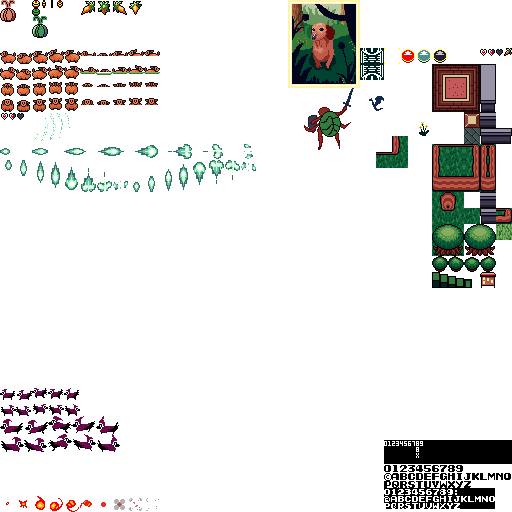
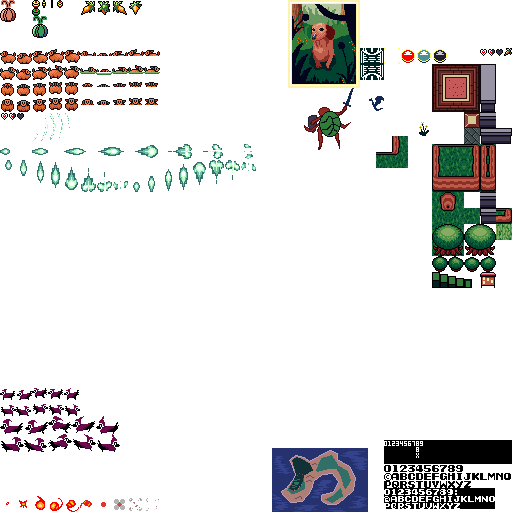
enter and exit the levelSelect status

Changed region(s): [[0.5312, 0.875, 0.7188, 1.0]]

diff --git a/LevelSelect.js b/LevelSelect.js
@@ -1,34 +1,103 @@
-class LevelPortal {
+/*
+LevelPortal.connections = [4]
+left, up, right, down
+
+
+*/
+
+class LevelPortal extends Sprite {
 	constructor(id,x,y,name,connections) {
+		super();
 		this.x = x;
 		this.y = y;
 		this.id = id;
 		this.name = name;
 		this.connections = connections;
 		this.up = this.getUpConnect();
-		this.down = down;
-		this.right = right;
-		this.left = left;
+		this.down = this.getDownConnect();
+		this.right = this.getRightConnect();
+		this.left = this.getLeftConnect();
 		
 		this.addCostume("red_level",400,48,16,16);
 		this.addCostume("blue_level",416,48,16,16);
 		this.addCostume("black_level",432,48,16,16);
+		this.setCurrentCostume("red_level");
 	}
 	
+	getLeftConnect = function() {
+		return (this.connections[0] == '1');
+	}
 	getUpConnect = function() {
-		return (connections[0] == '1');
+		return (this.connections[1] == '1');
+	}
+	getRightConnect = function() {
+		return (this.connections[2] == '1');
+	}
+	getDownConnect = function() {
+		return (this.connections[3] == '1');
 	}
 }
 
-class LevelSelectScreen {
+class Cursor extends Sprite {
+		constructor(type,x,y) {
+			super();
+			this.moveTo(x,y);
+			this.addCostume("cursor",384,48,16,16);
+			this.setCurrentCostume("cursor");
+		}
+	
+}
+
+class LevelSelectScreen extends Screen {
 	constructor() {
-		this.levels = [];
-		this.addLevel
+		super();
 		
-		this.addCostume("cursor",384,48,16,16);
+		addAtlas("worldmap",272,448,96,64);
+		this.levels = [];
+		this.selected = 0;
+		this.spaceReady = false;
+		
+		this.addLevel("level_0",102,96,"SANDY BEACH",'0100');
+		
+		this.cursor = new Cursor(0,0);
+		
 	}
 	
 	addLevel = function(id,x,y,name,connections) {
 		this.levels.push(new LevelPortal(id,x,y,name,connections));
+	}
+	
+		
+	process = function() {
+
+		if (key.space && this.spaceReady) {
+			game.status = "game";
+			init();
+		}
+		if (!key.space) {
+			this.spaceReady = true;
+		}
+	}
+	
+	draw = function() {
+		drawer.fillScreen("black");
+		drawImgFromAtlas("worldmap",game.window.width / 2 - 48, game.window.height / 2 - 32);
+
+		for (let i = 0; i < game.window.height + game.window.tly; i += 32) {
+			drawImgFromAtlas("border",8,i);
+			drawImgFromAtlas("border",game.window.width - 32,i);
+		}
+		for (let i = 0; i < this.levels.length; i ++) {
+			this.levels[i].draw();
+		}
+		
+		this.cursor.draw();
+		
+		text.setFont("whiteText");
+		text.print("SELECT",38,8,false);
+		text.print("A LEVEL",38,16,false);
+		text.print(this.levels[this.selected].name,80,114,false);
+		text.print("MADE BY THE FLEA",128,174,true);
+		//text.print("0123456789",0,0);
 	}
 }

diff --git a/TitleScreen.js b/TitleScreen.js
@@ -1,5 +1,24 @@
-class SplashScreen {
+class Screen {
 	constructor() {
+		
+	}
+	
+	reset = function() {
+		
+	}
+	
+	process = function() {
+		
+	}
+	
+	draw = function() {
+		
+	}
+}
+
+class SplashScreen extends Screen {
+	constructor() {
+		super();
 		addAtlas("flea_logo",296,88,64,64);
 		addAtlas("dragon_logo",368,96,16,16);
 		this.timer = 0;
@@ -13,6 +32,7 @@ class SplashScreen {
 	process = function() {
 		if (this.timer == 30) {
 			game.status = "title";
+			init();
 		} else {
 			this.timer++;
 		}
@@ -26,8 +46,9 @@ class SplashScreen {
 
 
 
-class TitleScreen {
+class TitleScreen extends Screen{
 	constructor() {
+		super();
 		addAtlas("title_logo",360,0,152,48);
 		addAtlas("mimi_woods",288,0,72,88);
 		addAtlas("border",360,48,24,32);
@@ -37,7 +58,7 @@ class TitleScreen {
 	process = function() {
 
 		if (key.space && this.spaceReady) {
-			game.status = "game";
+			game.status = "levelSelect";
 			init();
 		}
 		if (!key.space) {
@@ -65,8 +86,9 @@ class TitleScreen {
 }
 
 
-class DeathScreen {
+class DeathScreen extends Screen {
 	constructor() {
+		super();
 		this.tic = 0;
 	}
 	
@@ -78,7 +100,7 @@ class DeathScreen {
 	}
 	
 	draw = function() {
-		this.process();
+		//this.process();
 		
 		drawer.fillScreen("black");
 		text.print("Game Over",128,140,true,"whiteText");

diff --git a/main.js b/main.js
@@ -4,9 +4,10 @@ const screen = {
 	"height":192
 };
 
-var titleScreen = new TitleScreen();
+//var titleScreen = new TitleScreen();
 var startup = new SplashScreen();
 var deathScreen = new DeathScreen;
+var menuScreen = new Screen();
 var ready = false;
 
 function init() {
@@ -19,10 +20,10 @@ function init() {
 			break;
 		case "title":
 
-			titleScreen = new TitleScreen();
+			menuScreen = new TitleScreen();
 			break;
 		case "levelSelect":
-			
+			menuScreen = new LevelSelectScreen();
 			break;
 		case "game":
 			level = new Level(0,0);
@@ -53,8 +54,11 @@ function process() {
 			startup.process();
 			break;
 		case "title":
-			titleScreen.process();
+			menuScreen.process();
 			
+			break;
+		case "levelSelect":
+			menuScreen.process();
 			break;
 		case "game":
 			player.process();
@@ -62,6 +66,10 @@ function process() {
 			bushes.process();
 			collisions.process();
 			enemies.process();
+			break;
+		case "gameOver":
+			deathScreen.process()
+		
 			break;
 	}
 
@@ -74,9 +82,12 @@ function draw() {
 		case "startup":
 			startup.draw();
 			break;
-			case "title":
-			titleScreen.draw();
+		case "title":
+			menuScreen.draw();
 			
+			break;
+		case "levelSelect":
+			menuScreen.draw();
 			break;
 		case "game":
 			level.drawTiles();

diff --git a/TileAndLevel.js b/TileAndLevel.js
@@ -226,10 +226,16 @@ class Level {
 				}
 				
 				if (cell == 5) {
-					enemies.add(new JumpingKaidi(col * 16,row * 16 + game.window.tly));
+					let temp = new JumpingKaidi(col * 16,row * 16 + game.window.tly);
+					if (!coins.collectedItems.includes(currentWorld + "_" + currentLevelId + "_" + temp.toString())) {
+						enemies.add(temp);
+					}
 				}
 				if (cell == 6) {
-					enemies.add(new BigJumpingKaidi(col * 16,row * 16 + game.window.tly));
+					let temp = new BigJumpingKaidi(col * 16,row * 16 + game.window.tly);
+					if (!coins.collectedItems.includes(currentWorld + "_" + currentLevelId + "_" + temp.toString())) {
+						enemies.add(temp);
+					}
 				}
 				if (cell == 7) {
 					let temp = new Bush(col * 16,row * 16 + game.window.tly,1);

diff --git a/sprites.js b/sprites.js
@@ -183,9 +183,11 @@ class Sprite { //an assumption this class makes is that all costumes will be the
 	}
 	
 	isTouching = function(other) {
+		/*
 		if (!this.visible || !other.visible) {
 			return false;
 		}
+		*/
 		return (
 			this.x + this.hitbox.x < other.x + other.hitbox.x + other.hitbox.width &&
 			this.x + this.hitbox.x + this.width > other.x + other.hitbox.x &&
